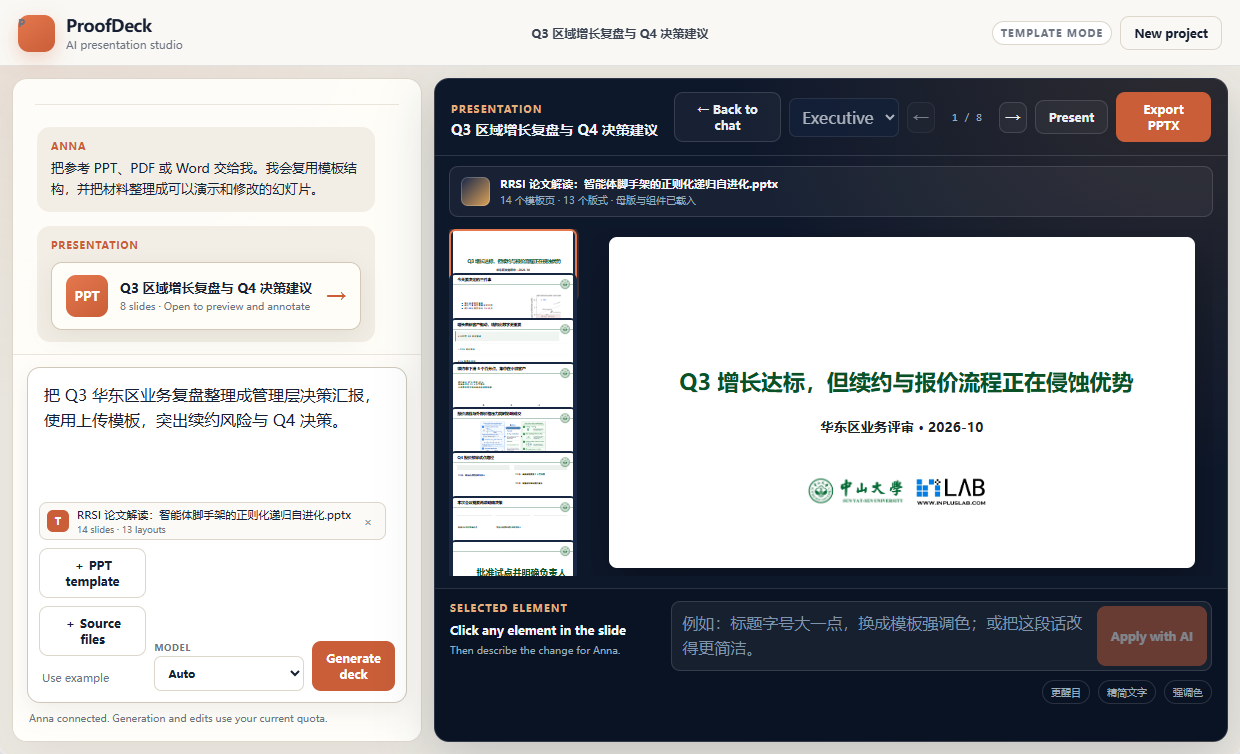
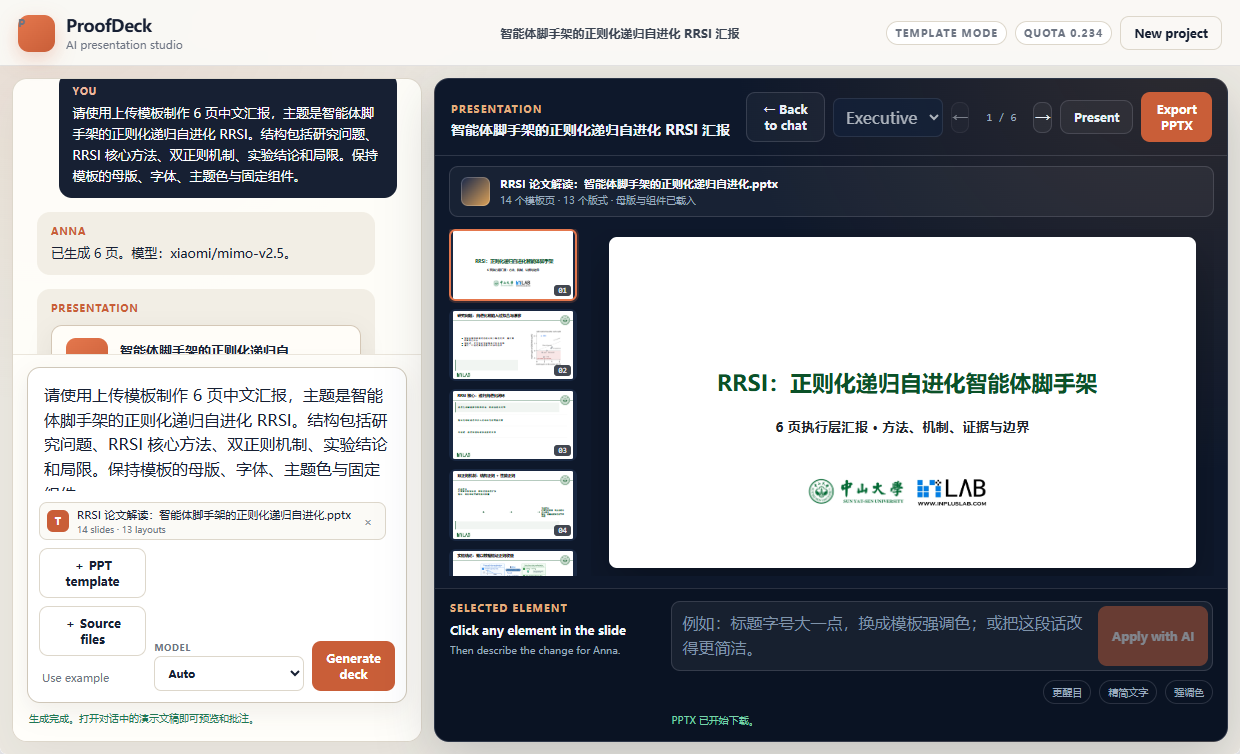
fix: show complete slide thumbnails

diff --git a/bundle/app.js b/bundle/app.js
@@ -100,6 +100,23 @@ function setExportStatus(text, tone = "") {
   node.dataset.tone = tone;
 }
 
+function summarizeGenerationWarnings(warnings = []) {
+  let invalidReferences = 0;
+  const messages = [];
+  for (const warning of warnings) {
+    const text = String(warning || "");
+    const marker = "移除了不存在的来源：";
+    if (text.includes(marker)) {
+      const refs = text.slice(text.indexOf(marker) + marker.length);
+      invalidReferences += refs.split(/[，,]/).filter(Boolean).length;
+    } else if (text) {
+      messages.push(text);
+    }
+  }
+  if (invalidReferences) messages.unshift(`已自动清理 ${invalidReferences} 个无效来源引用`);
+  return messages.join("；");
+}
+
 function appendMessage(author, text, tone = "") {
   const log = $("#conversation");
   const article = document.createElement("article");
@@ -608,7 +625,9 @@ async function generate() {
     const quota = Number(result.quotaConsumed || 0);
     setText($("#quota-badge"), quota ? `Quota ${quota.toFixed(3)}` : `Model ${result.model || "Anna AI"}`);
     $("#quota-badge").hidden = false;
-    const warning = result.warnings.length ? ` ${result.warnings.join("；")}` : "";
+    const warningSummary = summarizeGenerationWarnings(result.warnings);
+    if (result.warnings.length) console.warn("[ProofDeck] generation warnings", result.warnings);
+    const warning = warningSummary ? ` ${warningSummary}` : "";
     appendMessage(
       "Anna",
       `已生成 ${result.deck.slides.length} 页。模型：${result.model || "Anna AI"}。${warning}`,
@@ -616,7 +635,7 @@ async function generate() {
     );
     appendDeckLink();
     setStatus(
-      result.warnings.length ? `生成完成，需注意：${result.warnings.join("；")}` : "生成完成。打开对话中的演示文稿即可预览和批注。",
+      warningSummary ? `生成完成。${warningSummary}` : "生成完成。打开对话中的演示文稿即可预览和批注。",
       result.warnings.length ? "warning" : "success"
     );
     scheduleSave();

diff --git a/bundle/styles.css b/bundle/styles.css
@@ -694,7 +694,9 @@ select {
 
 .slide-filmstrip {
   display: grid;
+  grid-auto-rows: max-content;
   align-content: start;
+  align-items: start;
   gap: 8px;
   min-height: 0;
   padding-right: 4px;
@@ -704,6 +706,8 @@ select {
 .filmstrip-item {
   position: relative;
   width: 100%;
+  height: auto;
+  min-height: 0;
   aspect-ratio: 16 / 9;
   padding: 0;
   border: 2px solid transparent;

diff --git a/docs/validation.md b/docs/validation.md
@@ -10,11 +10,11 @@ Environment:
 - App: ProofDeck
 - App ID: `274`
 - Slug: `proofdeck-ai`
-- Next review candidate: `v0.2.1`
+- Review candidate: `v0.2.2` (`version_id=666`)
 
 ## Automated gates
 
-- `npm test`: 27 tests passed.
+- `npm test`: 29 tests passed.
 - `npm run smoke`: produced an eight-slide fallback deck with eight notes and a valid 16:9 package.
 - OfficeKit smoke: produced an eight-slide deck from a real `.pptx`, with shape-aware SVG output.
 - `npm run validate`: Anna schema 4 strict validation passed.
@@ -48,6 +48,8 @@ Browser acceptance used Microsoft Edge through `playwright-core` and both mock a
 | Opening the presentation link | Passed; reveals the left-chat/right-presentation workspace |
 | Returning to chat | Passed; closes the viewer and preserves the generated link |
 | Reload with a completed deck | Passed; restores into chat with the link instead of opening the viewer |
+| Slide thumbnail row layout | Passed; each 16:9 thumbnail reserves its full height and never overlaps the next slide |
+| Compact generation status | Passed; source-reference cleanup is summarized instead of printing every warning below the composer |
 | Shape inspection and click-to-select | Passed |
 | Selected-element AI patch | Passed with real Anna model |
 | Export after AI patch | Passed; valid PPTX with 8 slides and 8 notes |
@@ -67,6 +69,8 @@ PASS presentation link opens 8 template slides
 PASS stale RRSI body copy is absent
 PASS back to chat closes the workspace
 PASS reload restores into chat with the presentation link
+PASS slide thumbnails have 8px gaps and no overlap
+PASS warning text is compact
 PASS 720px layout has no horizontal overflow
 PASS no page errors
 ```
@@ -104,10 +108,11 @@ The real acceptance run used Anna's staging model bridge with the `proofdeck` de
 | `xiaomi/mimo-v2.5` | Six-slide Chinese management brief from uploaded DOCX and PPTX template | Passed; 6 slides rendered, template mode retained | `0.277 CU` |
 | `xiaomi/mimo-v2.5` | Selected title: larger font and template accent color | Passed; model returned a valid single-shape patch | `0.059 CU` |
 | `xiaomi/mimo-v2.5` | Repeat selected-element patch followed by export | Passed; valid PPTX, 8 slides, 8 notes | `0.059 CU` |
+| `xiaomi/mimo-v2.5` | Post-thumbnail-fix six-slide RRSI report from the supplied template | Passed; 6 slides, valid export, no thumbnail overlap | `0.234 CU` |
 
-Known successful real-model usage for this release was `0.395 CU`. An earlier attempt to force `qwen3.8-flash` produced no response before the harness was stopped after 220 seconds; its billing outcome was not observable from the client and is therefore not counted as a successful run. The account default subsequently routed the request to `xiaomi/mimo-v2.5`.
+Known successful real-model usage for template generation and element editing was `0.629 CU`. A pre-fix `v0.2.1` acceptance also completed successfully for `0.241 CU`; it was used only to reproduce the thumbnail bug. An earlier attempt to force `qwen3.8-flash` produced no response before the harness was stopped after 220 seconds; its billing outcome was not observable from the client and is therefore not counted as a successful run. The account default subsequently routed the request to `xiaomi/mimo-v2.5`.
 
-Quota consumption from earlier generation-only validation was approximately `82.18 CU`. The known successful total across development and final acceptance is therefore approximately `82.575 CU`; remaining quota is approximately `917.425 CU` before accounting for the unresolved canceled Qwen attempt.
+Quota consumption from earlier generation-only validation was approximately `82.18 CU`. Counting successful final-template and edit runs, the known successful total across development and acceptance is approximately `83.050 CU`; remaining quota is approximately `916.950 CU` before accounting for the unresolved canceled Qwen attempt.
 
 ## Historical cross-model generation checks
 
@@ -125,13 +130,13 @@ GPT-5 Mini, Kimi K2.5, and MiniMax M2.7 exposed mandatory-reasoning errors durin
 
 ## Publishing state
 
-`v0.2.1` was uploaded and cut successfully:
+`v0.2.2` was uploaded and cut successfully:
 
-- Remote working draft revision: `9`.
+- Remote working draft revision: `10`.
 - Bundle: 25 files, approximately 3.44 MB.
-- Immutable review version: `v0.2.1`, `version_id=664`.
+- Immutable review version: `v0.2.2`, `version_id=666`.
 - App status after submission: `pending_review`.
-- Review pin: `v0.2.1`.
+- Review pin: `v0.2.2`.
 
 The Anna web login requires a Cloudflare Turnstile human check in a fresh browser session. The real model acceptance therefore used the same saved Anna PAT and real `anna-runtime` bridge from the App's local Harness. The platform package is installed and pinned for review; a reviewer can install the `0.0.0-draft` version from the Developer Console after human verification.
 

diff --git a/README.md b/README.md
@@ -91,7 +91,7 @@ Generation and annotation requests both display the actual returned model and qu
 - The only automatic retry is a narrow compatibility retry for providers that explicitly require reasoning.
 - Source upload and text extraction happen locally in the browser.
 
-The App was developed primarily without consuming model quota. Historical cross-model generation tests from the generation-only release are preserved in [docs/validation.md](docs/validation.md); template-faithful AI acceptance and the final chat-first flow are recorded for `v0.2.1`.
+The App was developed primarily without consuming model quota. Historical cross-model generation tests from the generation-only release are preserved in [docs/validation.md](docs/validation.md); template-faithful AI acceptance and the final chat-first flow are recorded for `v0.2.2`.
 
 ## Run locally
 
